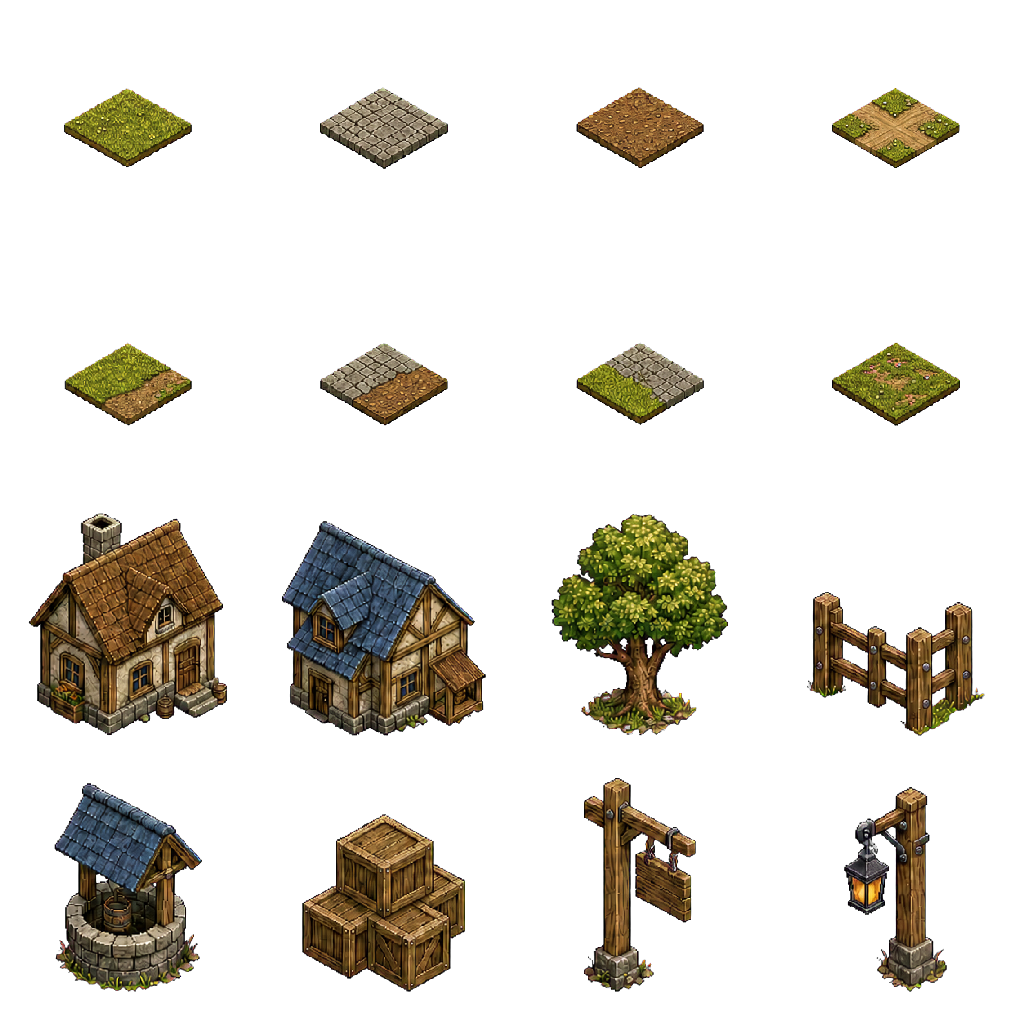
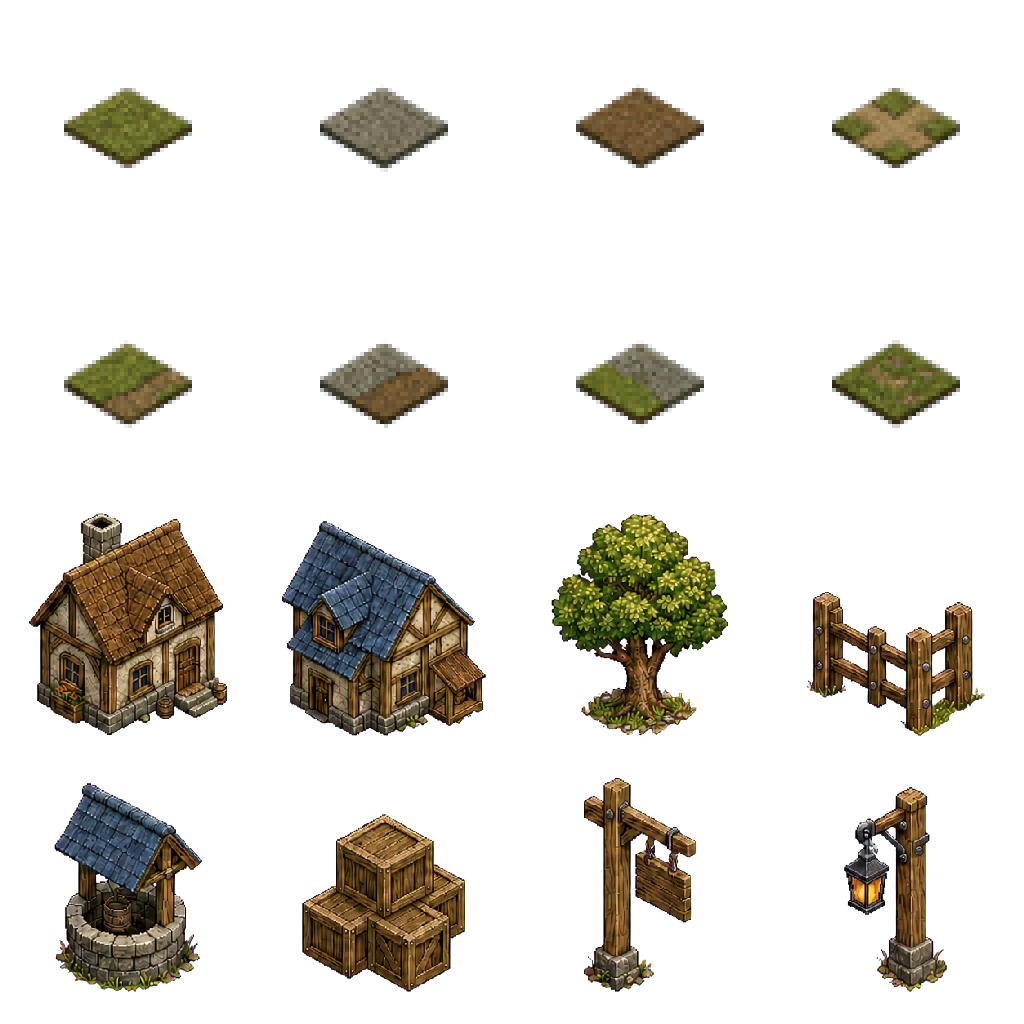
test: add isometric village first-frame gate

diff --git a/src/game/systems/IsometricVillagePreview.ts b/src/game/systems/IsometricVillagePreview.ts
@@ -15,29 +15,73 @@ export interface PreviewFrame {
   readonly objectCount: number;
 }
 
+export interface PreviewSourceFrame {
+  readonly x: number;
+  readonly y: number;
+  readonly width: number;
+  readonly height: number;
+}
+
 export const previewGridToScreen = (x: number, y: number): PreviewPoint => ({
   x: PREVIEW_ORIGIN_X + (x - y) * 16,
   y: PREVIEW_ORIGIN_Y + (x + y) * 8,
 });
 
 export const previewTerrainFrame = (x: number, y: number): number => {
-  if (x >= 28 && x < 36) return 2;
-  if (x >= 20 && x < 44 && y >= 20 && y < 44) return 1;
+  const plazaDistance = Math.max(Math.abs(x - 32), Math.abs(y - 29));
+  const mainRoadDistance = Math.abs(x - y);
+  const branchRoadDistance = Math.abs(x + y - 60);
+  const mainRoadActive = x + y >= 48 && x + y <= 84;
+  const branchRoadActive = x >= 24 && x <= 38 && y >= 22 && y <= 36;
+
+  if (
+    mainRoadActive &&
+    branchRoadActive &&
+    mainRoadDistance <= 1 &&
+    branchRoadDistance <= 1
+  ) {
+    return 3;
+  }
+  if (
+    (mainRoadActive && mainRoadDistance <= 1) ||
+    (branchRoadActive && branchRoadDistance <= 1)
+  ) {
+    return 2;
+  }
+  if (
+    (mainRoadActive && mainRoadDistance === 2) ||
+    (branchRoadActive && branchRoadDistance === 2)
+  ) {
+    return plazaDistance <= 5 ? 5 : 4;
+  }
+  if (plazaDistance <= 5) return 1;
+  if (plazaDistance === 6) return 6;
   return 0;
+};
+
+export const previewKnightFrame = (
+  sourceWidth: number,
+  sourceHeight: number,
+): PreviewSourceFrame | null => {
+  if (sourceWidth <= 0 || sourceHeight <= 0) return null;
+  const width = Math.floor(sourceWidth / 8);
+  const height = Math.floor(sourceHeight / 6);
+  if (width <= 0 || height <= 0) return null;
+  return { x: width * 4, y: 0, width, height };
 };
 
 export const previewDepth = (x: number, y: number, offset = 0): number =>
   (x + y) * 100 + offset;
 
 const props = [
-  { frame: 8, x: 27, y: 28, scale: 0.5, anchorY: 0.88 },
-  { frame: 9, x: 37, y: 28, scale: 0.5, anchorY: 0.88 },
-  { frame: 10, x: 25, y: 26, scale: 0.4, anchorY: 0.9 },
-  { frame: 11, x: 29, y: 25, scale: 0.3, anchorY: 0.82 },
-  { frame: 12, x: 32, y: 28, scale: 0.35, anchorY: 0.82 },
-  { frame: 13, x: 36, y: 26, scale: 0.3, anchorY: 0.84 },
-  { frame: 14, x: 30, y: 30, scale: 0.28, anchorY: 0.86 },
-  { frame: 15, x: 34, y: 30, scale: 0.28, anchorY: 0.9 },
+  { frame: 8, x: 27, y: 27, scale: 0.42, anchorY: 0.88 },
+  { frame: 9, x: 36, y: 28, scale: 0.42, anchorY: 0.88 },
+  { frame: 10, x: 22, y: 27, scale: 0.38, anchorY: 0.9 },
+  { frame: 11, x: 34, y: 24, scale: 0.28, anchorY: 0.82 },
+  { frame: 12, x: 28, y: 30, scale: 0.3, anchorY: 0.82 },
+  { frame: 13, x: 40, y: 25, scale: 0.26, anchorY: 0.84 },
+  { frame: 14, x: 29, y: 33, scale: 0.23, anchorY: 0.86 },
+  { frame: 15, x: 34, y: 29, scale: 0.23, anchorY: 0.9 },
 ] as const;
 
 const actors = [
@@ -93,14 +137,16 @@ export class IsometricVillagePreview {
       this.#objects.push(image);
     }
 
+    const knightFrame = this.#knightFrame();
     for (const actor of actors) {
       const point = previewGridToScreen(actor.x, actor.y);
-      const sprite = this.#scene.add.sprite(0, 0, actor.texture, actor.frame).setOrigin(0.5, 1);
+      const frame = actor.texture === 'player-knight' ? knightFrame : actor.frame;
+      const sprite = this.#scene.add.sprite(0, 0, actor.texture, frame).setOrigin(0.5, 1);
       const width = Math.max(1, sprite.frame.realWidth);
       const height = Math.max(1, sprite.frame.realHeight);
-      sprite.setScale(Math.min(44 / width, 52 / height));
+      sprite.setScale(Math.min(52 / width, 64 / height));
       const label = this.#scene.add
-        .text(0, -sprite.displayHeight - 2, actor.name, {
+        .text(0, -sprite.displayHeight - 4, actor.name, {
           color: '#ffe8b0',
           fontSize: '9px',
           stroke: '#17120d',
@@ -118,6 +164,19 @@ export class IsometricVillagePreview {
       objectCount: this.#objects.length,
     };
     return this.#frame;
+  }
+
+  #knightFrame(): string {
+    const frameName = 'isometric-village-preview:player-knight';
+    const texture = this.#scene.textures.get('player-knight');
+    if (!texture.has(frameName)) {
+      const source = texture.getSourceImage() as { width: number; height: number };
+      const frame = previewKnightFrame(source.width, source.height);
+      if (frame !== null) {
+        texture.add(frameName, 0, frame.x, frame.y, frame.width, frame.height);
+      }
+    }
+    return texture.has(frameName) ? frameName : 'class-knight:frame:0';
   }
 
   destroy(): void {

diff --git a/tests/visual/isometric-village-first-frame.spec.ts b/tests/visual/isometric-village-first-frame.spec.ts
@@ -1,0 +1,87 @@
+import { expect, test } from '@playwright/test';
+
+test.use({ viewport: { width: 1280, height: 720 } });
+
+test('captures the isometric village first-frame candidate', async ({ page }, testInfo) => {
+  const errors: string[] = [];
+  page.on('console', (message) => {
+    if (message.type() === 'error') errors.push(message.text());
+  });
+  page.on('pageerror', (error) => {
+    errors.push(error.message);
+  });
+
+  await page.goto('/?e2e=1&firstFrame=1');
+  await page.getByRole('button', { name: '開始新遊戲' }).click();
+  await page.getByLabel('角色名稱').fill('視覺測試');
+  await page.getByRole('radio', { name: '騎士' }).check();
+  await page.getByRole('button', { name: '建立角色' }).click();
+
+  const root = page.getByTestId('game-root');
+  await expect(page.getByTestId('world-state')).toHaveAttribute('data-ready', 'true');
+  await expect(root).toHaveAttribute('data-first-frame-preview', 'true');
+  await expect(root).toHaveAttribute('data-first-frame-camera', '640x384');
+  await expect(root).toHaveAttribute('data-first-frame-asset-failures', '0');
+
+  const background = await root.locator('.hud-bottom-bar').evaluate(
+    (element) => getComputedStyle(element).backgroundImage,
+  );
+  expect(background.startsWith('url(')).toBe(true);
+
+  const hudBox = await page.getByTestId('hud-root').boundingBox();
+  const canvasBox = await root.locator('canvas').boundingBox();
+  const worldViewportBox = await page.getByTestId('world-viewport').boundingBox();
+  const controlsBox = await page.locator('.save-controls').boundingBox();
+  const quickSlotsBox = await page.getByTestId('hud-quick-slots').boundingBox();
+  expect(hudBox).not.toBeNull();
+  expect(canvasBox).not.toBeNull();
+  expect(worldViewportBox).not.toBeNull();
+  expect(controlsBox).not.toBeNull();
+  expect(quickSlotsBox).not.toBeNull();
+  if (hudBox !== null && canvasBox !== null && worldViewportBox !== null) {
+    expect(hudBox.width).toBeCloseTo(canvasBox.width, 0);
+    expect(hudBox.height).toBeCloseTo(canvasBox.height, 0);
+    expect(worldViewportBox.width).toBeCloseTo(canvasBox.width, 0);
+    expect(worldViewportBox.height).toBeCloseTo(canvasBox.height * (384 / 480), 0);
+  }
+  if (hudBox !== null && controlsBox !== null) {
+    expect(controlsBox.x).toBeGreaterThanOrEqual(hudBox.x);
+    expect(controlsBox.y).toBeGreaterThanOrEqual(hudBox.y);
+    expect(controlsBox.x + controlsBox.width).toBeLessThanOrEqual(hudBox.x + hudBox.width);
+    expect(controlsBox.y + controlsBox.height).toBeLessThanOrEqual(hudBox.y + hudBox.height);
+  }
+  if (controlsBox !== null && quickSlotsBox !== null) {
+    const overlapsQuickSlots =
+      controlsBox.x < quickSlotsBox.x + quickSlotsBox.width &&
+      controlsBox.x + controlsBox.width > quickSlotsBox.x &&
+      controlsBox.y < quickSlotsBox.y + quickSlotsBox.height &&
+      controlsBox.y + controlsBox.height > quickSlotsBox.y;
+    expect(overlapsQuickSlots).toBe(false);
+  }
+
+  await page.getByTestId('world-state').evaluate((element) => {
+    element.style.display = 'none';
+  });
+  await page.addStyleTag({
+    content:
+      '*, *::before, *::after { animation: none !important; caret-color: transparent !important; }',
+  });
+  await page.evaluate(
+    () =>
+      new Promise<void>((resolve) => {
+        requestAnimationFrame(() => {
+          requestAnimationFrame(() => {
+            resolve();
+          });
+        });
+      }),
+  );
+
+  const screenshotPath = testInfo.outputPath('isometric-village-first-frame.png');
+  await root.screenshot({ path: screenshotPath, animations: 'disabled' });
+  await testInfo.attach('isometric-village-first-frame', {
+    path: screenshotPath,
+    contentType: 'image/png',
+  });
+  expect(errors).toEqual([]);
+});

diff --git a/src/ui/styles.css b/src/ui/styles.css
@@ -669,3 +669,61 @@ input {
     --hud-display-scale: 0.75;
   }
 }
+
+#game-root[data-first-frame-preview='true'] .classic-hud {
+  --hud-display-scale: inherit;
+}
+
+#game-root[data-first-frame-preview='true'] .hud-bottom-bar {
+  position: relative;
+  grid-template-columns: 160px 220px 260px;
+  background-image:
+    var(--classic-frame-image),
+    linear-gradient(180deg, rgb(34 35 31 / 98%), rgb(11 13 12 / 99%));
+  background-repeat: no-repeat, no-repeat;
+  background-position: -21px -355px, 0 0;
+  background-size: 965px 465px, 100% 100%;
+}
+
+#game-root[data-first-frame-preview='true'] .hud-console,
+#game-root[data-first-frame-preview='true'] .hud-vitals,
+#game-root[data-first-frame-preview='true'] .hud-actions {
+  position: relative;
+  z-index: 1;
+  background: rgb(8 10 9 / 72%);
+}
+
+#game-root[data-first-frame-preview='true'] .hud-quick-slots > li {
+  border-color: transparent;
+  background-image:
+    var(--classic-frame-image),
+    linear-gradient(180deg, #292821, #141612);
+  background-repeat: no-repeat, no-repeat;
+  background-position: -517px -14px, 0 0;
+  background-size: 1034px 401px, 100% 100%;
+}
+
+#game-root[data-first-frame-preview='true'] .hud-gauge {
+  padding: 1px 3px;
+  border: 1px solid #80613c;
+  background: rgb(8 10 9 / 82%);
+}
+
+#game-root[data-first-frame-preview='true'] .save-controls {
+  right: auto !important;
+  bottom: 4px !important;
+  left: 4px !important;
+  grid-template-columns: 1fr 1fr;
+  width: 152px;
+}
+
+#game-root[data-first-frame-preview='true'] .save-controls button {
+  min-height: 18px;
+  padding: 1px 3px;
+  font-size: 8px;
+}
+
+#game-root[data-first-frame-preview='true'] .save-controls output {
+  grid-column: 1 / -1;
+  min-height: 10px;
+}

diff --git a/tests/unit/isometric-village-preview.test.ts b/tests/unit/isometric-village-preview.test.ts
@@ -3,6 +3,7 @@ import { describe, expect, it } from 'vitest';
 import {
   previewDepth,
   previewGridToScreen,
+  previewKnightFrame,
   previewTerrainFrame,
 } from '../../src/game/systems/IsometricVillagePreview';
 
@@ -13,10 +14,24 @@ describe('isometric village first-frame preview', () => {
     expect(previewGridToScreen(32, 33)).toEqual({ x: 1008, y: 584 });
   });
 
-  it('selects road over plaza and plaza over grass', () => {
+  it('keeps the plaza compact and blends narrow roads through transitions', () => {
     expect(previewTerrainFrame(32, 32)).toBe(2);
-    expect(previewTerrainFrame(24, 24)).toBe(1);
+    expect(previewTerrainFrame(30, 30)).toBe(3);
+    expect(previewTerrainFrame(27, 30)).toBe(1);
+    expect(previewTerrainFrame(28, 30)).toBe(5);
+    expect(previewTerrainFrame(26, 29)).toBe(6);
+    expect(previewTerrainFrame(23, 40)).toBe(0);
     expect(previewTerrainFrame(18, 18)).toBe(0);
+  });
+
+  it('selects one complete 8x6 knight pose for the preview', () => {
+    expect(previewKnightFrame(1_536, 1_024)).toEqual({
+      x: 768,
+      y: 0,
+      width: 192,
+      height: 170,
+    });
+    expect(previewKnightFrame(0, 1_024)).toBeNull();
   });
 
   it('orders feet by projected row and explicit offset', () => {
